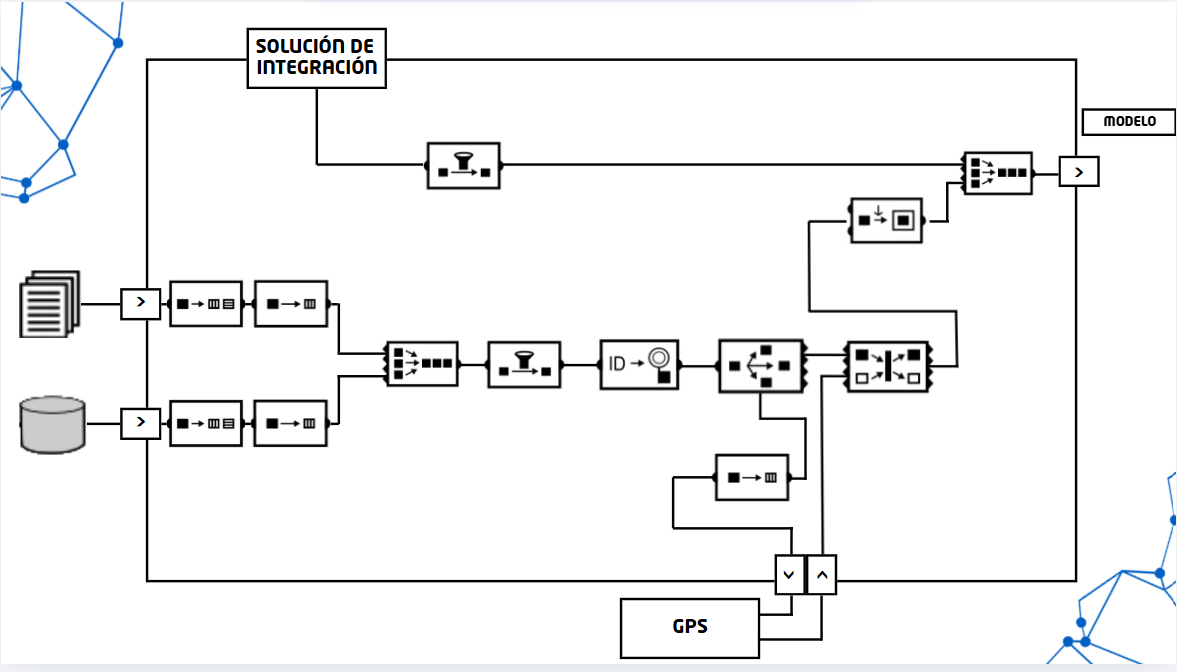
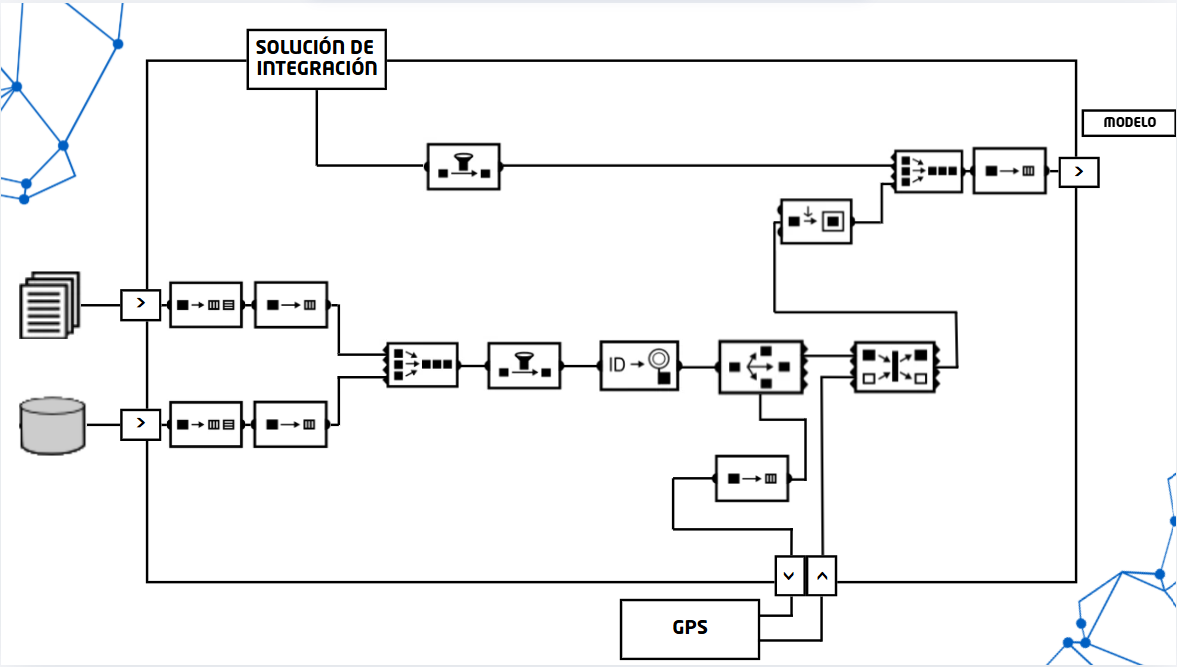
actualizaion de solucion

diff --git a/presentaciones/presentaci_n_central_el_ctrica.md b/presentaciones/presentaci_n_central_el_ctrica.md
@@ -21,7 +21,7 @@ style: |
 
 - Introducción al problema
 - Planteamiento DSL
-- XPath ($\chi\rho\alpha\tau\eta$)
+- XPath 
 - Solución de Integración
 - Ejemplos de mensajes
 
@@ -41,7 +41,7 @@ style: |
 
 ---
 
-## XPath ($\chi\rho\alpha\tau\eta$)
+## XPath 
 
 Estructura de datos XML base para las consultas:
 
@@ -63,7 +63,7 @@ Estructura de datos XML base para las consultas:
 
 ---
 
-## XPath ($\chi\rho\alpha\tau\eta$) - Consultas
+## XPath  - Consultas
 
 - Selección de nodos clave en el documento XML:
   - `//user | //direccion | //fecha | //consumo`
